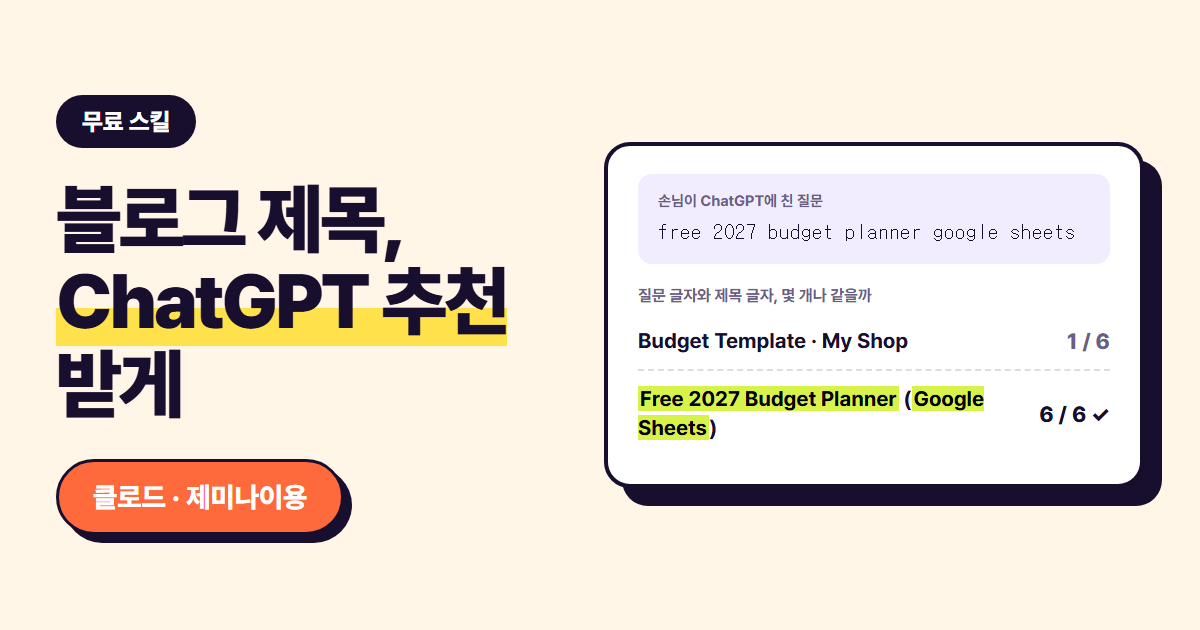
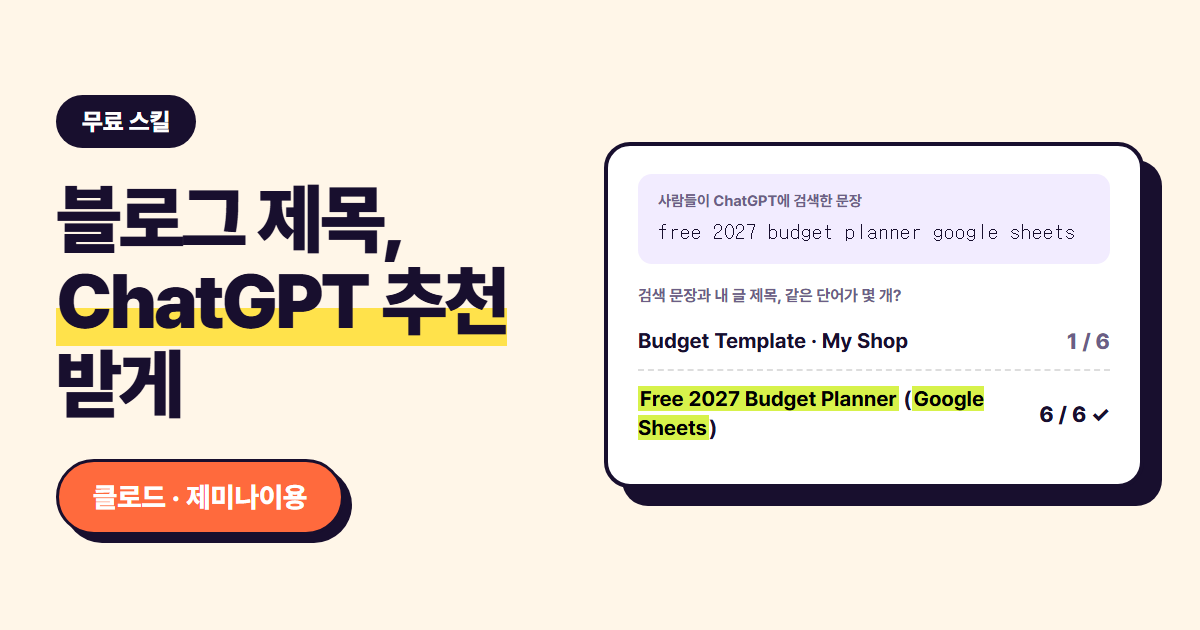
chatgpt-title-check: plain wording (visitor language instead of customer, results instead of verdict)

Changed region(s): [[0.5242, 0.4524, 0.7708, 0.4825], [0.5242, 0.3016, 0.74, 0.3317]]

diff --git a/chatgpt-title-check.html b/chatgpt-title-check.html
@@ -4,7 +4,7 @@
 <meta charset="UTF-8" />
 <meta name="viewport" content="width=device-width, initial-scale=1.0" />
 <title>블로그 제목, ChatGPT 추천 받게 고치는 무료 스킬 (클로드·제미나이) · 미국주부</title>
-<meta name="description" content="ChatGPT에 물어볼 질문 3개를 만들어 주고, 붙여넣은 답으로 내 사이트가 나오는지 판정한 뒤 블로그 제목을 고쳐 주는 무료 스킬. 클로드·제미나이용." />
+<meta name="description" content="ChatGPT에 물어볼 질문 3개를 만들어 주고, 붙여넣은 답으로 내 사이트가 나오는지 확인한 뒤 블로그 제목을 고쳐 주는 무료 스킬. 클로드·제미나이용." />
 
 <link rel="canonical" href="https://mikukjubu.com/chatgpt-title-check.html" />
 <link rel="alternate" hreflang="ko" href="https://mikukjubu.com/chatgpt-title-check.html" />
@@ -65,7 +65,7 @@
 </style>
 <meta property="og:type" content="article" />
 <meta property="og:title" content="블로그 제목, ChatGPT 추천 받게 고치는 무료 스킬 (클로드·제미나이)" />
-<meta property="og:description" content="ChatGPT에 물어볼 질문 3개를 만들어 주고, 붙여넣은 답으로 내 사이트가 나오는지 판정한 뒤 블로그 제목을 고쳐 주는 무료 스킬. 클로드·제미나이용." />
+<meta property="og:description" content="ChatGPT에 물어볼 질문 3개를 만들어 주고, 붙여넣은 답으로 내 사이트가 나오는지 확인한 뒤 블로그 제목을 고쳐 주는 무료 스킬. 클로드·제미나이용." />
 <meta property="og:url" content="https://mikukjubu.com/chatgpt-title-check.html" />
 <meta property="og:image" content="https://mikukjubu.com/img/chatgpt-title-check-cover.png" />
 <meta name="twitter:card" content="summary_large_image" />
@@ -73,7 +73,7 @@
 <script type="application/ld+json">
 {"@context":"https://schema.org","@type":"Article",
  "headline":"블로그 제목, ChatGPT 추천 받게 고치는 무료 스킬 (클로드·제미나이)",
- "description":"ChatGPT에 물어볼 질문 3개를 만들어 주고, 붙여넣은 답으로 내 사이트가 나오는지 판정한 뒤 블로그 제목을 고쳐 주는 무료 스킬. 클로드·제미나이용.",
+ "description":"ChatGPT에 물어볼 질문 3개를 만들어 주고, 붙여넣은 답으로 내 사이트가 나오는지 확인한 뒤 블로그 제목을 고쳐 주는 무료 스킬. 클로드·제미나이용.",
  "image":"https://mikukjubu.com/img/chatgpt-title-check-cover.png",
  "datePublished":"2026-10-27","dateModified":"2026-10-27","inLanguage":"ko",
  "author":{"@type":"Person","name":"미국주부","url":"https://mikukjubu.com/"},
@@ -120,19 +120,19 @@ y=l.getElementsByTagName(r)[0];y.parentNode.insertBefore(t,y);
 <main class="mk-article">
 <p class="hand">질문 3개만 붙여넣으면 제목까지 고쳐 줘요</p>
 
-<p>ChatGPT는 구글 순위가 아니라 <b>손님이 묻는 질문 글자와 제목 글자가 얼마나 같은지</b>를 보고 사이트를 자주 고릅니다. 제가 운영하는 작은 디지털 상품 사이트도 이렇게 제목을 바꾼 뒤 ChatGPT 추천 1번으로 나왔습니다. 그 과정을 <b>클로드·제미나이가 대신 해 주는 무료 스킬</b>로 만들었습니다. 돈 내지 않고, 아래 순서대로 복사·붙여넣기만 하면 됩니다.</p>
+<p>ChatGPT는 구글 순위가 아니라 <b>사람들이 ChatGPT에 검색한 문장과 내 글 제목이 얼마나 같은지</b>를 보고 사이트를 자주 고릅니다. 제가 운영하는 작은 디지털 상품 사이트도 이렇게 제목을 바꾼 뒤 ChatGPT 추천 1번으로 나왔습니다. 그 과정을 <b>클로드·제미나이가 대신 해 주는 무료 스킬</b>로 만들었습니다. 돈 내지 않고, 아래 순서대로 복사·붙여넣기만 하면 됩니다.</p>
 
 <h2>이 스킬이 하는 일</h2>
 <div class="rules">
-  <div class="rule"><p class="no">STEP 1</p><span class="t">질문 3개 만들기</span><p>내 페이지 제목과 손님(한국·미국)을 알려 주면, 손님이 ChatGPT에 <b>실제로 칠 질문</b> 3개를 만들어 줍니다.</p></div>
+  <div class="rule"><p class="no">STEP 1</p><span class="t">질문 3개 만들기</span><p>내 글 제목과 방문자가 쓰는 언어(한국어·영어)를 알려 주면, 사람들이 ChatGPT에 <b>실제로 검색할 만한 질문</b> 3개를 만들어 줍니다.</p></div>
   <div class="rule"><p class="no">STEP 2</p><span class="t">ChatGPT에 직접 묻기</span><p>질문을 ChatGPT <b>임시 채팅</b>에 붙여넣고, 답 아래 <b>복사 버튼</b>으로 답을 복사해 다시 붙여넣습니다.</p></div>
-  <div class="rule"><p class="no">STEP 3</p><span class="t">판정 + 제목 고치기</span><p>내 사이트가 몇 번째인지, 대신 어떤 사이트가 나왔는지 표로 보여 주고 <b>질문 글자에 맞춘 제목</b>을 추천합니다.</p></div>
+  <div class="rule"><p class="no">STEP 3</p><span class="t">결과 확인 + 제목 고치기</span><p>내 사이트가 몇 번째인지, 대신 어떤 사이트가 나왔는지 표로 보여 주고 <b>검색 문장에 맞춘 제목</b>을 추천합니다.</p></div>
 </div>
 
 <h2>어떤 걸 쓰면 되나요?</h2>
 <div class="rules" style="grid-template-columns:repeat(2,1fr)">
   <div class="rule"><p class="no">클로드를 쓰면</p><span class="t">A. 스킬 파일 올리기</span><p>파일 하나 받아서 한 번 올려 두면, 다음부터는 말만 하면 바로 시작합니다.</p></div>
-  <div class="rule"><p class="no">제미나이를 쓰면</p><span class="t">B. 글 복사해서 붙여넣기</span><p>아래 글을 복사해서 제미나이 새 채팅에 붙여넣기만 하면 됩니다. 로그인 안 해도 됩니다.</p></div>
+  <div class="rule"><p class="no">제미나이를 쓰면</p><span class="t">B. 글 복사해서 붙여넣기</span><p>아래 「스킬 글」을 복사해서 제미나이 새 채팅에 붙여넣기만 하면 됩니다. 로그인 안 해도 됩니다.</p></div>
 </div>
 
 <h2>A. 클로드에서 쓰기 (처음 한 번만 5분)</h2>
@@ -157,84 +157,85 @@ y=l.getElementsByTagName(r)[0];y.parentNode.insertBefore(t,y);
 <pre>ChatGPT 추천 제목 체크해 줘.
 내 페이지 제목은 <span class="ph">[지금 내 글·상품 제목]</span> 이고,
 주소는 <span class="ph">[내 페이지 주소]</span> 야.
-손님은 <span class="ph">[한국 / 미국]</span> 사람이야.</pre>
-<p class="note">예: 내 페이지 제목은 Free 2027 Budget Planner (Google Sheets) 이고, 주소는 https://내사이트.com/2027-planner/ 야. 손님은 미국 사람이야.</p></div>
+내 사이트 방문자는 <span class="ph">[한국어 / 영어]</span>를 써.</pre>
+<p class="note">예: 내 페이지 제목은 Free 2027 Budget Planner (Google Sheets) 이고, 주소는 https://내사이트.com/2027-planner/ 야. 내 사이트 방문자는 영어를 써.</p></div>
 <p>그러면 클로드가 <b>ChatGPT에 물어볼 질문 3개</b>를 줍니다. 그다음은 아래 <b>「C. ChatGPT에 물어보기」</b>로 가세요.</p>
-<p class="note" style="font-size:14px;color:var(--ink-soft)">Skills 메뉴가 안 보이면 B처럼 아래 지시문을 복사해 새 채팅 첫 메시지로 붙여넣어도 똑같이 됩니다.</p>
+<p class="note" style="font-size:14px;color:var(--ink-soft)">Skills 메뉴가 안 보이면 B처럼 아래 「스킬 글」을 복사해 새 채팅 첫 메시지로 붙여넣어도 똑같이 됩니다.</p>
 
 <h2>B. 제미나이에서 쓰기 (복사·붙여넣기 2번)</h2>
 
-<h3>1번 — 지시문 복사하기</h3>
+<h3>1번 — 스킬 글 복사하기</h3>
 <p>아래 상자 오른쪽 위 <b>복사</b> 버튼을 누릅니다. 글이 길어도 <b>통째로</b> 복사됩니다.</p>
-<div class="pr"><div class="pr-bar"><span>지시문 (제미나이 · 클로드 공용)</span><button class="pill pill-white cp" type="button">복사</button></div>
-<pre style="max-height:300px;overflow:auto">너는 「ChatGPT 추천 제목 체크」 젬이다. 아래 순서를 그대로 따른다. 사용자가 처음 말을 걸면 1단계부터 시작한다.
+<div class="pr"><div class="pr-bar"><span>스킬 글 (제미나이에 붙여넣을 글 · 클로드도 가능)</span><button class="pill pill-white cp" type="button">복사</button></div>
+<pre style="max-height:300px;overflow:auto">너는 「ChatGPT 추천 제목 체크」 도우미다. 아래 순서를 그대로 따른다. 사용자가 처음 말을 걸면 1단계부터 시작한다.
 
 
 # ChatGPT 추천 제목 체크 (미국주부 무료 스킬)
 
-사용자는 블로그·온라인 가게를 하는 초보다. 쉬운 말로, 한 번에 한 단계씩 안내한다.
-사용자가 붙여넣은 ChatGPT 답이 없으면 지어내지 않는다. 판정은 붙여넣은 내용으로만 한다.
+사용자는 블로그나 온라인 가게를 하는 초보다. 쉬운 말로, 한 번에 한 단계씩 안내한다.
+사용자에게는 일상에서 쓰는 쉬운 말로 말한다 — 예: **방문자**, **검색 문장**, **결과**, **제목 형태**. 어려운 마케팅 용어는 쓰지 않는다.
+사용자가 붙여넣은 ChatGPT 답이 없으면 지어내지 않는다. 결과는 붙여넣은 내용으로만 정리한다.
 
 ## 왜 제목인가 (사용자가 물으면 설명)
-- ChatGPT는 질문을 검색 문장으로 바꿔 웹을 찾고, 그중 **질문 글자와 제목 글자가 많이 겹치는 페이지**를 자주 인용한다.
+- ChatGPT는 사용자의 질문을 검색어로 바꿔 웹을 찾고, 그중 **검색 문장과 단어가 많이 겹치는 제목의 페이지**를 자주 추천한다.
   (AirOps 2026년 3월 연구, 질문 15,000개: 제목이 질문 단어를 절반 이상 같이 쓰면 인용률 20.1%, 10% 미만이면 9.3%.)
-- 구글·네이버 순위와 따로 논다. 만든 지 몇 달 안 된 작은 사이트도 1위로 추천된 실제 사례가 있다.
-- 순위는 물을 때마다 바뀐다. 한 번 결과로 판단하지 않는다.
+- 구글·네이버 순위와는 따로 움직인다. 만든 지 몇 달 안 된 작은 사이트가 1위로 추천된 실제 사례가 있다.
+- 순위는 물어볼 때마다 바뀐다. 한 번 결과만 보고 결론 내리지 않는다.
 
 ## 1단계 — 정보 받기
 사용자에게 아래 3가지만 묻는다. 이미 말했으면 다시 묻지 않는다.
-1. 페이지 주소 (없으면 &quot;아직 없음&quot;)
+1. 페이지 주소 (아직 없으면 &quot;없음&quot;)
 2. 지금 제목
-3. 손님이 누구인가 — 한국 손님인가, 미국 등 영어권 손님인가
+3. 내 사이트 방문자가 쓰는 언어 — 한국어인가, 영어인가
 
-## 2단계 — 질문 3개 만들기
-손님이 ChatGPT에 **실제로 칠 문장**을 3개 만든다.
-- 손님 언어로 쓴다. 영어권 손님이면 영어로.
-- 내 사이트 이름·브랜드는 넣지 않는다.
-- 무료 자료면 &quot;무료/free&quot;를 넣는다. &quot;free&quot;가 없으면 ChatGPT가 웹 검색을 아예 안 하고 혼자 답하는 경우가 많다.
-- 3개는 서로 다르게: ① 가장 흔한 말 ② 더 좁은 말(연도·용도·대상) ③ 형식이나 상황이 붙은 말.
+## 2단계 — ChatGPT에 물어볼 질문 3개 만들기
+방문자가 ChatGPT에 **실제로 검색할 만한 문장**을 3개 만든다.
+- 방문자가 쓰는 언어로 쓴다. 영어면 영어로.
+- 내 사이트 이름이나 브랜드는 넣지 않는다.
+- 무료 자료면 &quot;무료&quot; 또는 &quot;free&quot;를 넣는다. &quot;free&quot;가 없으면 ChatGPT가 웹 검색을 아예 안 하고 혼자 답하는 경우가 많다.
+- 3개는 서로 다르게: ① 가장 흔하게 쓰는 말 ② 더 좁힌 말(연도·용도·대상) ③ 형식이나 상황이 붙은 말.
 
-각 질문을 **따로따로 복사하기 쉬운 코드 상자**에 넣고, 아래 안내를 그대로 보여 준다.
+질문을 하나씩 **따로 복사하기 쉬운 코드 상자**에 넣고, 아래 안내를 그대로 보여 준다.
 
 &gt; **ChatGPT에서 이렇게 해 주세요**
-&gt; 1. chatgpt.com 에서 **임시 채팅**을 엽니다. (로그인했다면 오른쪽 위에서 개인화도 끕니다 — 평소 대화 기억이 섞이지 않게)
-&gt; 2. 질문 하나를 붙여넣고 보냅니다. 답에 출처 링크가 없으면 **검색(지구본) 버튼을 켜고** 다시 보냅니다.
-&gt; 3. 답 아래 **복사 버튼**(네모 두 개 아이콘)을 누릅니다. 출처 링크까지 같이 복사됩니다. 화면 캡처를 붙여도 됩니다.
-&gt; 4. 여기에 붙여넣습니다. 질문마다 **새 임시 채팅**에서 반복합니다.
+&gt; 1. chatgpt.com 에서 **임시 채팅**을 켭니다. (로그인했다면 오른쪽 위에서 개인화도 끕니다 — 평소 대화 기록이 결과에 섞이지 않게요)
+&gt; 2. 질문 하나를 붙여넣고 보냅니다. 답에 출처 링크가 없으면 **검색(지구본) 버튼**을 켜고 다시 보냅니다.
+&gt; 3. 답 아래 **복사 버튼**(네모 두 개 겹친 아이콘)을 누릅니다. 출처 링크까지 같이 복사됩니다. 화면 캡처를 붙여도 됩니다.
+&gt; 4. 여기에 붙여넣습니다. 질문마다 **새 임시 채팅**을 열어서 반복합니다.
 
-## 3단계 — 판정
-답이 하나 들어올 때마다 **기다리지 말고 바로** 그 질문의 판정 표를 보여 주고, 다음 질문 답을 붙여 달라고 한다.
+## 3단계 — 결과 정리
+답이 하나 들어올 때마다 **기다리지 말고 바로** 그 질문의 결과 표를 보여 주고, 다음 질문의 답을 붙여 달라고 한다.
 사용자가 &quot;이게 다야&quot;, &quot;나머지는 못 했어&quot;라고 하면 받은 답만으로 4단계까지 간다.
 
-| 질문 | 내 사이트 나옴? | 몇 번째 | 대신 나온 곳 (상위 5) | 그곳들의 제목 모양 |
+| 질문 | 내 사이트가 나왔나 | 몇 번째 | 대신 추천된 사이트 (위에서 5개) | 그 사이트들의 제목 |
 |---|---|---|---|---|
 
 - &quot;몇 번째&quot;는 답에 나온 순서로 센다. 출처 목록만 있으면 출처 순서로 센다.
-- 출처 링크가 하나도 없으면 &quot;ChatGPT가 검색 안 함&quot;으로 적는다. 이건 나쁜 신호가 아니다 — **아직 전용 페이지를 가진 곳이 적다**는 뜻일 수 있다. 질문에 free·연도·형식을 넣어 한 번 더 시켜 본다.
-- 대신 나온 곳들의 제목에서 **공통 모양**을 찾는다. 예: `Free ___ Template (Google Sheets)` 가 여러 개면 그게 ChatGPT가 고르는 모양이다.
-- 같은 모양의 전용 페이지가 이미 10개 가까이 꽉 찼으면 솔직하게 말한다: &quot;제목만으로는 늦었을 수 있다 — 더 좁은 주제(연도·용도·대상)를 노리자.&quot;
+- 출처 링크가 하나도 없으면 &quot;ChatGPT가 웹 검색을 안 함&quot;이라고 적는다. 나쁜 신호가 아니다 — **아직 그 주제만 다룬 페이지가 적다**는 뜻일 수 있다. 질문에 free·연도·형식을 넣어 한 번 더 물어보게 한다.
+- 대신 추천된 사이트들의 제목에서 **공통으로 쓰는 제목 형태**를 찾는다. 예: `Free ___ Template (Google Sheets)` 가 여러 개면 ChatGPT가 그런 제목을 고르고 있다는 뜻이다.
+- 같은 형태의 제목을 쓴 페이지가 이미 10개 가까이 있으면 솔직하게 말한다: &quot;제목만 바꿔서는 늦었을 수 있어요 — 더 좁은 주제(연도·용도·대상)를 노려 봐요.&quot;
 
 ## 4단계 — 제목 고치기
 고친 제목 2~3개를 주고, 하나를 추천한다. 규칙:
-1. **질문 글자를 그대로** 제목 앞쪽에 넣는다. 띄어쓰기·단어 순서도 질문과 같게.
+1. **검색 문장에 쓴 단어를 그대로** 제목 앞쪽에 넣는다. 띄어쓰기와 단어 순서도 검색 문장과 같게.
 2. 무료면 **Free/무료** + 물건 이름 + 형식(Google Sheets, PDF 등)을 다 넣는다. **유료 상품엔 Free를 넣지 않는다.**
 3. 브랜드 이름은 맨 뒤에 둔다.
-4. **한 물건 = 한 페이지.** 여러 상품을 한 페이지에 묶었으면 나누라고 말한다.
-5. 페이지 첫 문단에 답을 쓴다 — 무엇인지, 무료인지, 이메일 필요 여부, 형식.
+4. **물건 하나 = 페이지 하나.** 여러 상품을 한 페이지에 묶었으면 나누라고 말한다.
+5. 페이지 첫 문단에 핵심을 쓴다 — 무엇인지, 무료인지, 이메일이 필요한지, 형식이 무엇인지.
 
-지금 제목이 이미 질문 단어를 거의 다 갖고 있으면 **억지로 바꾸지 않는다.** &quot;제목은 이미 잘 맞아요&quot;라고 말하고, 대신 이것부터 보라고 한다: 페이지가 공개돼 있나 · 새로 만든 지 며칠 안 됐나(검색에 들어가기까지 시간이 걸린다) · 아래 5단계 robots.txt · 첫 문단에 답이 있나.
+지금 제목이 이미 검색 문장의 단어를 거의 다 갖고 있으면 **억지로 바꾸지 않는다.** &quot;제목은 이미 잘 맞아요&quot;라고 말하고, 대신 이것부터 보라고 한다: 페이지가 공개돼 있나 · 만든 지 며칠 안 됐나(검색에 들어가기까지 시간이 걸린다) · 아래 5단계 robots.txt · 첫 문단에 핵심이 있나.
 
 전·후를 표로 보여 준다.
 
-| | 제목 | 질문과 겹치는 단어 |
+| | 제목 | 검색 문장과 같은 단어 |
 |---|---|---|
-| 지금 | … | … / 질문 단어 수 |
-| 추천 | … | … / 질문 단어 수 |
+| 지금 | … | … / 검색 문장 단어 수 |
+| 추천 | … | … / 검색 문장 단어 수 |
 
 ## 5단계 — 다음 할 일
-1. 사이트에서 제목을 바꾼다 (블로그 제목 + 검색 제목(SEO 제목) 둘 다).
+1. 사이트에서 제목을 바꾼다 (글 제목 + 검색용 제목(SEO 제목) 둘 다).
 2. robots.txt 에서 **OAI-SearchBot 을 막지 않았는지** 확인한다. 막혀 있으면 ChatGPT 검색에 안 나온다.
-3. **1~2주 뒤** 같은 질문 3개로 2단계부터 다시 잰다. 결과는 아래 표에 날짜와 함께 적어 두라고 한다.
+3. **1~2주 뒤** 같은 질문 3개로 2단계부터 다시 확인한다. 결과는 아래 표에 날짜와 함께 적어 두라고 한다.
 
 | 날짜 | 질문 | 몇 번째 |
 |---|---|---|
@@ -242,7 +243,7 @@ y=l.getElementsByTagName(r)[0];y.parentNode.insertBefore(t,y);
 ## 하지 말 것
 - 순위를 약속하지 않는다 (&quot;이렇게 하면 1위&quot;). 연구는 관계를 본 것이지 보장이 아니다.
 - 붙여넣지 않은 결과를 추측해서 채우지 않는다.
-- 구글 순위부터 올리라고 하지 않는다. ChatGPT 추천과 따로 논다.
+- 구글 순위부터 올리라고 하지 않는다. ChatGPT 추천과는 따로 움직인다.
 
 ---
 만든 곳: 미국주부 (mikukjubu.com) · 무료로 나눠 드려요.</pre></div>
@@ -252,7 +253,7 @@ y=l.getElementsByTagName(r)[0];y.parentNode.insertBefore(t,y);
   <li><b>gemini.google.com</b>을 엽니다. (로그인 안 해도 됩니다.)</li>
   <li>왼쪽 위 <b>새 채팅</b>을 누릅니다.</li>
   <li>아래 입력칸을 누르고 <b>Ctrl + V</b>(맥은 <b>Cmd + V</b>)로 붙여넣은 뒤 <b>보내기</b>를 누릅니다.</li>
-  <li>제미나이가 "페이지 주소, 제목, 손님을 알려 주세요"처럼 물어봅니다.</li>
+  <li>제미나이가 "페이지 주소, 제목, 방문자가 쓰는 언어를 알려 주세요"처럼 물어봅니다.</li>
 </ol>
 
 <h3>3번 — 이렇게 쓰고 보내기</h3>
@@ -272,7 +273,7 @@ y=l.getElementsByTagName(r)[0];y.parentNode.insertBefore(t,y);
 <ol>
   <li>ChatGPT 답 맨 아래 <b>복사 버튼</b>(네모 두 개 겹친 아이콘)을 누릅니다. 출처 링크까지 같이 복사됩니다.</li>
   <li>클로드·제미나이 창으로 돌아와 <b>그대로 붙여넣고</b> 보냅니다. 앞에 "질문 ① 답이야"라고 한 줄 붙이면 더 좋아요.</li>
-  <li>바로 판정 표가 나옵니다 — <b>내 사이트가 나왔는지, 몇 번째인지, 대신 어떤 사이트가 나왔는지.</b></li>
+  <li>바로 결과 표가 나옵니다 — <b>내 사이트가 나왔는지, 몇 번째인지, 대신 어떤 사이트가 나왔는지.</b></li>
 </ol>
 
 <h3>6번 — 질문 ②, ③도 똑같이</h3>
@@ -280,7 +281,7 @@ y=l.getElementsByTagName(r)[0];y.parentNode.insertBefore(t,y);
 
 <h3>7번 — 고친 제목 받고, 2주 뒤 다시 재기</h3>
 <ol>
-  <li>질문 글자에 맞춘 <b>고친 제목</b>과 전·후 비교표가 나옵니다. 제목이 이미 잘 맞으면 "바꿀 필요 없다"고 알려 줍니다.</li>
+  <li>검색 문장에 맞춘 <b>고친 제목</b>과 전·후 비교표가 나옵니다. 제목이 이미 잘 맞으면 "바꿀 필요 없다"고 알려 줍니다.</li>
   <li>내 블로그·상품 페이지에서 <b>제목</b>과 <b>검색 제목(SEO 제목)</b>을 바꿉니다.</li>
   <li><b>1~2주 뒤</b> 같은 질문 3개로 4번부터 다시 해서 순위가 바뀌었는지 봅니다.</li>
 </ol>
@@ -289,9 +290,9 @@ y=l.getElementsByTagName(r)[0];y.parentNode.insertBefore(t,y);
 <div class="found">
   <ul>
     <li><b>ChatGPT 답 아래 복사 버튼을 누르면 출처 링크까지 같이 복사됩니다.</b> 그래서 붙여넣기만으로 몇 번째인지 셀 수 있습니다.</li>
-    <li>질문 <b>"free 2027 budget planner google sheets"</b>(로그아웃·임시 채팅)에 제 사이트의 <b>Free 2027 Budget Planner (Google Sheets)</b> 페이지가 1번으로 나왔습니다. 질문 글자가 제목에 거의 그대로 있습니다.</li>
-    <li>클로드에 스킬 zip을 올리고 "ChatGPT 추천 제목 체크해 줘"라고 하니 스킬이 바로 켜져 같은 순서로 진행했습니다. 제목이 이미 잘 맞을 땐 크게 바꾸지 말라고 판정했습니다.</li>
-    <li>로그인 안 한 제미나이에 지시문을 넣고 손님처럼 써 보니 <b>질문 3개 → 판정 표 → 제목 추천 → 다음 할 일</b>까지 순서대로 나왔습니다.</li>
+    <li>질문 <b>"free 2027 budget planner google sheets"</b>(로그아웃·임시 채팅)에 제 사이트의 <b>Free 2027 Budget Planner (Google Sheets)</b> 페이지가 1번으로 나왔습니다. 검색한 문장이 제목에 거의 그대로 들어 있습니다.</li>
+    <li>클로드에 스킬 zip을 올리고 "ChatGPT 추천 제목 체크해 줘"라고 하니 스킬이 바로 켜져 같은 순서로 진행했습니다. 제목이 이미 잘 맞을 땐 크게 바꾸지 말라고 알려 줬습니다.</li>
+    <li>로그인 안 한 제미나이에 스킬 글을 넣고 처음 쓰는 사람처럼 써 보니 <b>질문 3개 → 결과 표 → 제목 추천 → 다음 할 일</b>까지 순서대로 나왔습니다.</li>
   </ul>
 </div>
 
